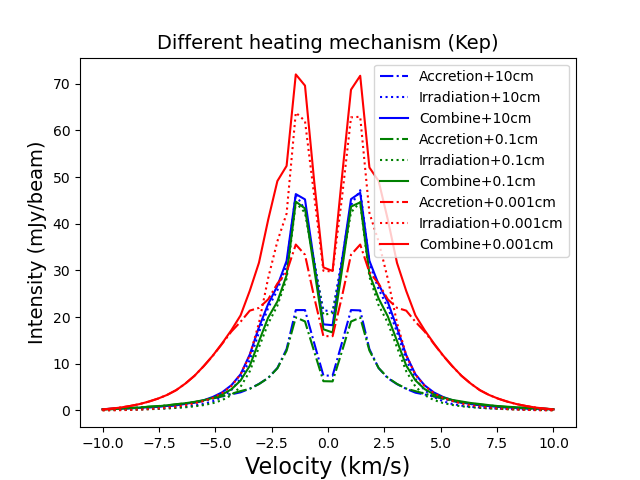
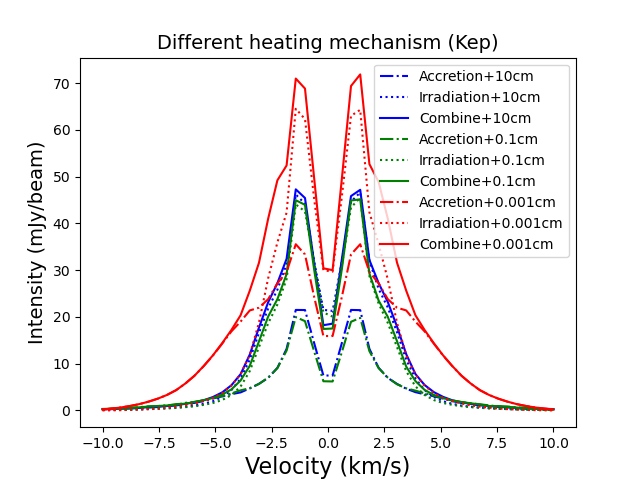
Backup

diff --git a/plot/plot_spectra/plot_spectra.py b/plot/plot_spectra/plot_spectra.py
@@ -69,20 +69,20 @@ color_list = ['b', 'g', 'r', 'c']
 a_list = [10, 0.1, 0.001]
 
 for idx_a, a in enumerate(a_list):
-    problem_setup(a_max=a, Mass_of_star=0.14*Msun, Accretion_rate=0.14e-5*Msun/yr, Radius_of_disk=70*au, v_infall=1, 
-                  pancake=False, mctherm=False, snowline=True, floor=True, kep=True, Rcb=5)
+    problem_setup(a_max=a, Mass_of_star=0.14*Msun, Accretion_rate=0.14e-5*Msun/yr, Radius_of_disk=100*au, v_infall=1, 
+                  pancake=False, mctherm=False, snowline=True, floor=True, kep=True, Rcb=30)
     plot_spectra(incl=70, line=240, extract_gas=True, color=color_list[idx_a], label=f'Accretion+{a}cm', linestyle='-.', v_width=10)
 
-    problem_setup(a_max=a, Mass_of_star=0.14*Msun, Accretion_rate=0.14e-5*Msun/yr, Radius_of_disk=70*au, v_infall=1, 
-                  pancake=False, mctherm=True, snowline=True, floor=True, kep=True, Rcb=5)
+    problem_setup(a_max=a, Mass_of_star=0.14*Msun, Accretion_rate=0.14e-5*Msun/yr, Radius_of_disk=100*au, v_infall=1, 
+                  pancake=False, mctherm=True, snowline=True, floor=True, kep=True, Rcb=30)
     plot_spectra(incl=70, line=240, extract_gas=True, color=color_list[idx_a], label=f'Irradiation+{a}cm', linestyle=':', v_width=10)
 
-    problem_setup(a_max=a, Mass_of_star=0.14*Msun, Accretion_rate=0.14e-5*Msun/yr, Radius_of_disk=70*au, v_infall=1, 
-                  pancake=False, mctherm=True, snowline=True, floor=True, kep=True, Rcb=5, combine=True)
+    problem_setup(a_max=a, Mass_of_star=0.14*Msun, Accretion_rate=0.14e-5*Msun/yr, Radius_of_disk=100*au, v_infall=1, 
+                  pancake=False, mctherm=True, snowline=True, floor=True, kep=True, Rcb=30, combine=True)
     plot_spectra(incl=70, line=240, extract_gas=True, color=color_list[idx_a], label=f'Combine+{a}cm', linestyle='-', v_width=10)
 plt.title('Different heating mechanism (Oya)',fontsize = 14)
 plt.legend()
-plt.savefig('Different_heating_oya.png')
+plt.savefig('Different_heating_oya_rcb_30.png')
 plt.close()
 os.system('make cleanall')
 
@@ -105,33 +105,33 @@ plt.close()
 os.system('make cleanall')
 
 for idx_a, a in enumerate(a_list):
-    problem_setup(a_max=a, Mass_of_star=0.14*Msun, Accretion_rate=0.14e-5*Msun/yr, Radius_of_disk=70*au, v_infall=1, 
-                  pancake=False, mctherm=False, snowline=True, floor=True, kep=True, Rcb=5, gas_inside_rcb=True)
+    problem_setup(a_max=a, Mass_of_star=0.14*Msun, Accretion_rate=0.14e-5*Msun/yr, Radius_of_disk=100*au, v_infall=1, 
+                  pancake=False, mctherm=False, snowline=True, floor=True, kep=True, Rcb=30, gas_inside_rcb=True)
     plot_spectra(incl=70, line=240, extract_gas=True, color=color_list[idx_a], label=f'Accretion+{a}cm', linestyle='-.', v_width=10)
 
-    problem_setup(a_max=a, Mass_of_star=0.14*Msun, Accretion_rate=0.14e-5*Msun/yr, Radius_of_disk=70*au, v_infall=1, 
-                  pancake=False, mctherm=True, snowline=True, floor=True, kep=True, Rcb=5, gas_inside_rcb=True)
+    problem_setup(a_max=a, Mass_of_star=0.14*Msun, Accretion_rate=0.14e-5*Msun/yr, Radius_of_disk=100*au, v_infall=1, 
+                  pancake=False, mctherm=True, snowline=True, floor=True, kep=True, Rcb=30, gas_inside_rcb=True)
     plot_spectra(incl=70, line=240, extract_gas=True, color=color_list[idx_a], label=f'Irradiation+{a}cm', linestyle=':', v_width=10)
 
-    problem_setup(a_max=a, Mass_of_star=0.14*Msun, Accretion_rate=0.14e-5*Msun/yr, Radius_of_disk=70*au, v_infall=1, 
-                  pancake=False, mctherm=True, snowline=True, floor=True, kep=True, Rcb=5, combine=True, gas_inside_rcb=True)
+    problem_setup(a_max=a, Mass_of_star=0.14*Msun, Accretion_rate=0.14e-5*Msun/yr, Radius_of_disk=100*au, v_infall=1, 
+                  pancake=False, mctherm=True, snowline=True, floor=True, kep=True, Rcb=30, combine=True, gas_inside_rcb=True)
     plot_spectra(incl=70, line=240, extract_gas=True, color=color_list[idx_a], label=f'Combine+{a}cm', linestyle='-', v_width=10)
 plt.title('Different heating mechanism (Gas inside Rcb)',fontsize = 14)
 plt.legend()
-plt.savefig('Different_heating_gas.png')
+plt.savefig('Different_heating_gas_rcb_30.png')
 plt.close()
 os.system('make cleanall')
 
 for idx_a, a in enumerate(a_list):
-    problem_setup(a_max=a, Mass_of_star=0.14*Msun, Accretion_rate=0.14e-5*Msun/yr, Radius_of_disk=70*au, v_infall=1, 
+    problem_setup(a_max=a, Mass_of_star=0.14*Msun, Accretion_rate=0.14e-5*Msun/yr, Radius_of_disk=100*au, v_infall=1, 
                   pancake=False, mctherm=False, snowline=True, floor=True, kep=True, Rcb=None)
     plot_spectra(incl=70, line=240, extract_gas=True, color=color_list[idx_a], label=f'Accretion+{a}cm', linestyle='-.', v_width=10)
 
-    problem_setup(a_max=a, Mass_of_star=0.14*Msun, Accretion_rate=0.14e-5*Msun/yr, Radius_of_disk=70*au, v_infall=1, 
+    problem_setup(a_max=a, Mass_of_star=0.14*Msun, Accretion_rate=0.14e-5*Msun/yr, Radius_of_disk=100*au, v_infall=1, 
                   pancake=False, mctherm=True, snowline=True, floor=True, kep=True, Rcb=None)
     plot_spectra(incl=70, line=240, extract_gas=True, color=color_list[idx_a], label=f'Irradiation+{a}cm', linestyle=':', v_width=10)
 
-    problem_setup(a_max=a, Mass_of_star=0.14*Msun, Accretion_rate=0.14e-5*Msun/yr, Radius_of_disk=70*au, v_infall=1, 
+    problem_setup(a_max=a, Mass_of_star=0.14*Msun, Accretion_rate=0.14e-5*Msun/yr, Radius_of_disk=100*au, v_infall=1, 
                   pancake=False, mctherm=True, snowline=True, floor=True, kep=True, Rcb=None, combine=True)
     plot_spectra(incl=70, line=240, extract_gas=True, color=color_list[idx_a], label=f'Combine+{a}cm', linestyle='-', v_width=10)
 plt.title('Different heating mechanism (Infalling)',fontsize = 14)

diff --git a/plot/plot_pv/plot_pv.py b/plot/plot_pv/plot_pv.py
@@ -146,38 +146,50 @@ def multiple_plots(amax, rcb, nlam, npix, sizeau, v0=0, vwidth=5):
 for idx_mc, mctherm in enumerate([True, False]):
     for idx_snow, snow in enumerate([True, False]):
 
-        problem_setup(a_max=0.1, Mass_of_star=0.14*Msun, Accretion_rate=0.14e-5*Msun/yr, Radius_of_disk=70*au, v_infall=0, 
+        problem_setup(a_max=0.1, Mass_of_star=0.14*Msun, Accretion_rate=0.14e-5*Msun/yr, Radius_of_disk=100*au, v_infall=0, 
                       pancake=False, mctherm=mctherm, snowline=snow, floor=True, kep=True, Rcb=None)
-        plot_pv(incl=70, vkm=0, v_width=5, nlam=40, extract_gas=True, npix=40, sizeau=200)
-        plt.savefig(f'mctherm_{mctherm}_snowline_{snow}_kep.png')
+        plot_pv(incl=70, vkm=0, v_width=5, nlam=50, extract_gas=True, npix=40, sizeau=300)
+        plt.savefig(f'./rcb_30/mctherm_{mctherm}_snowline_{snow}_kep.png')
+
+        plot_pv(incl=70, vkm=0, v_width=5, nlam=50, nodust=True, npix=40, sizeau=300)
+        plt.savefig(f'./rcb_30/mctherm_{mctherm}_snowline_{snow}_nodust_kep.png')
 os.system('make cleanall')
 
-# Pure Infalling
+# Infalling
 for idx_mc, mctherm in enumerate([True, False]):
     for idx_snow, snow in enumerate([True, False]):
 
-        problem_setup(a_max=0.1, Mass_of_star=0.14*Msun, Accretion_rate=0.14e-5*Msun/yr, Radius_of_disk=70*au, v_infall=1, 
+        problem_setup(a_max=0.1, Mass_of_star=0.14*Msun, Accretion_rate=0.14e-5*Msun/yr, Radius_of_disk=100*au, v_infall=1, 
                       pancake=False, mctherm=mctherm, snowline=snow, floor=True, kep=True, Rcb=None)
-        plot_pv(incl=70, vkm=0, v_width=5, nlam=40, extract_gas=True, npix=40, sizeau=200)
-        plt.savefig(f'mctherm_{mctherm}_snowline_{snow}_infalling.png')
+        plot_pv(incl=70, vkm=0, v_width=5, nlam=50, extract_gas=True, npix=40, sizeau=300)
+        plt.savefig(f'./rcb_30/mctherm_{mctherm}_snowline_{snow}_infalling.png')
+
+        plot_pv(incl=70, vkm=0, v_width=5, nlam=50, nodust=True, npix=40, sizeau=300)
+        plt.savefig(f'./rcb_30/mctherm_{mctherm}_snowline_{snow}_nodust_infalling.png')
 os.system('make cleanall')
 
 # Gas inside Rcb
 for idx_mc, mctherm in enumerate([True, False]):
     for idx_snow, snow in enumerate([True, False]):
 
-        problem_setup(a_max=0.1, Mass_of_star=0.14*Msun, Accretion_rate=0.14e-5*Msun/yr, Radius_of_disk=70*au, v_infall=1, 
-                      pancake=False, mctherm=mctherm, snowline=snow, floor=True, kep=True, Rcb=5, gas_inside_rcb=True)
-        plot_pv(incl=70, vkm=0, v_width=5, nlam=40, extract_gas=True, npix=40, sizeau=200)
-        plt.savefig(f'mctherm_{mctherm}_snowline_{snow}_gas_inside.png')
+        problem_setup(a_max=0.1, Mass_of_star=0.14*Msun, Accretion_rate=0.14e-5*Msun/yr, Radius_of_disk=100*au, v_infall=1, 
+                      pancake=False, mctherm=mctherm, snowline=snow, floor=True, kep=True, Rcb=30, gas_inside_rcb=True)
+        plot_pv(incl=70, vkm=0, v_width=5, nlam=50, extract_gas=True, npix=40, sizeau=300)
+        plt.savefig(f'./rcb_30/mctherm_{mctherm}_snowline_{snow}_gas_inside.png')
+
+        plot_pv(incl=70, vkm=0, v_width=5, nlam=50, nodust=True, npix=40, sizeau=300)
+        plt.savefig(f'./rcb_30/mctherm_{mctherm}_snowline_{snow}_nodust_gas_inside.png')
 os.system('make cleanall')
 
 # Oya
 for idx_mc, mctherm in enumerate([True, False]):
     for idx_snow, snow in enumerate([True, False]):
 
-        problem_setup(a_max=0.1, Mass_of_star=0.14*Msun, Accretion_rate=0.14e-5*Msun/yr, Radius_of_disk=70*au, v_infall=1, 
-                      pancake=False, mctherm=mctherm, snowline=snow, floor=True, kep=True, Rcb=5, gas_inside_rcb=False)
-        plot_pv(incl=70, vkm=0, v_width=5, nlam=40, extract_gas=True, npix=40, sizeau=200)
-        plt.savefig(f'mctherm_{mctherm}_snowline_{snow}_oya.png')
+        problem_setup(a_max=0.1, Mass_of_star=0.14*Msun, Accretion_rate=0.14e-5*Msun/yr, Radius_of_disk=100*au, v_infall=1, 
+                      pancake=False, mctherm=mctherm, snowline=snow, floor=True, kep=True, Rcb=30, gas_inside_rcb=False)
+        plot_pv(incl=70, vkm=0, v_width=5, nlam=50, extract_gas=True, npix=40, sizeau=300)
+        plt.savefig(f'./rcb_30/mctherm_{mctherm}_snowline_{snow}_oya.png')
+
+        plot_pv(incl=70, vkm=0, v_width=5, nlam=50, nodust=True, npix=40, sizeau=300)
+        plt.savefig(f'./rcb_30/mctherm_{mctherm}_snowline_{snow}_nodust_oya.png')
 os.system('make cleanall')

diff --git a/problem_setup.py b/problem_setup.py
@@ -38,7 +38,7 @@ class problem_setup:
             f.write('nphot = %d\n'%(nphot))
             f.write('scattering_mode_max = 2\n')   # Put this to 1 for isotropic scattering
             f.write('istar_sphere = 1\n')
-            f.write('setthreads = 7\n') # Depending on the number of cores in the computer
+            f.write('setthreads = 14\n') # Depending on the number of cores in the computer
         
         #
         # Write the lines.inp control file
